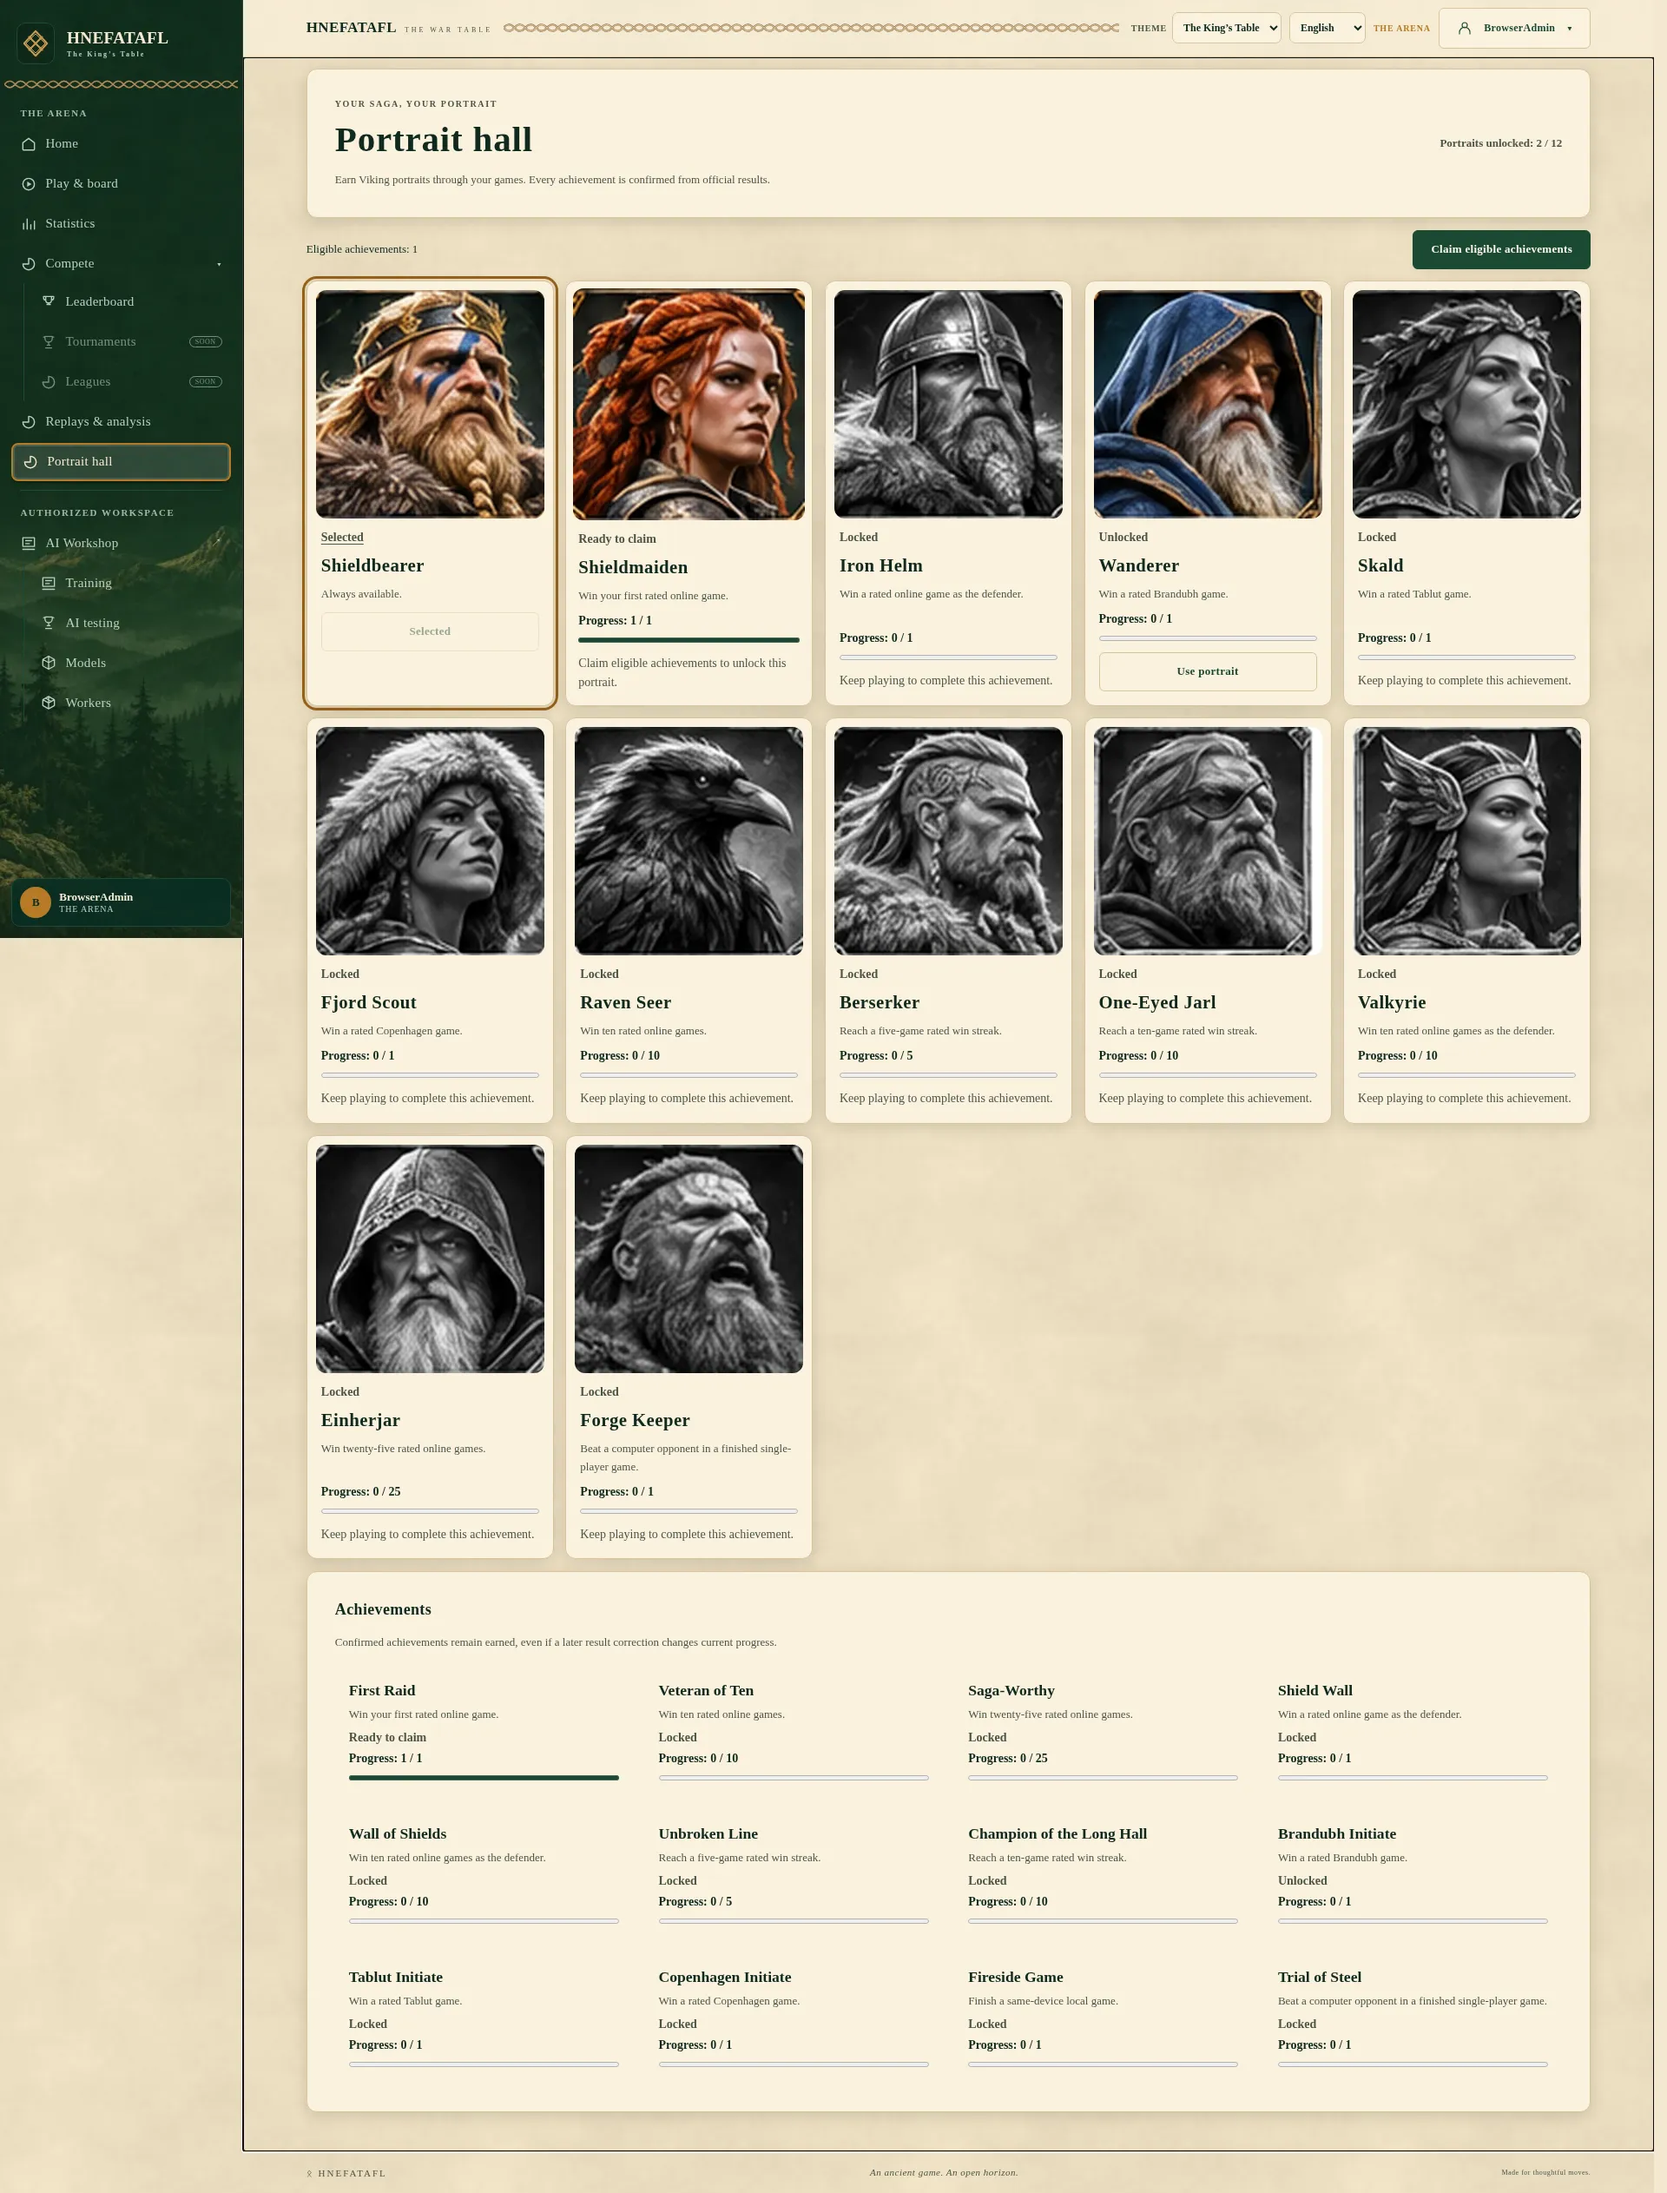
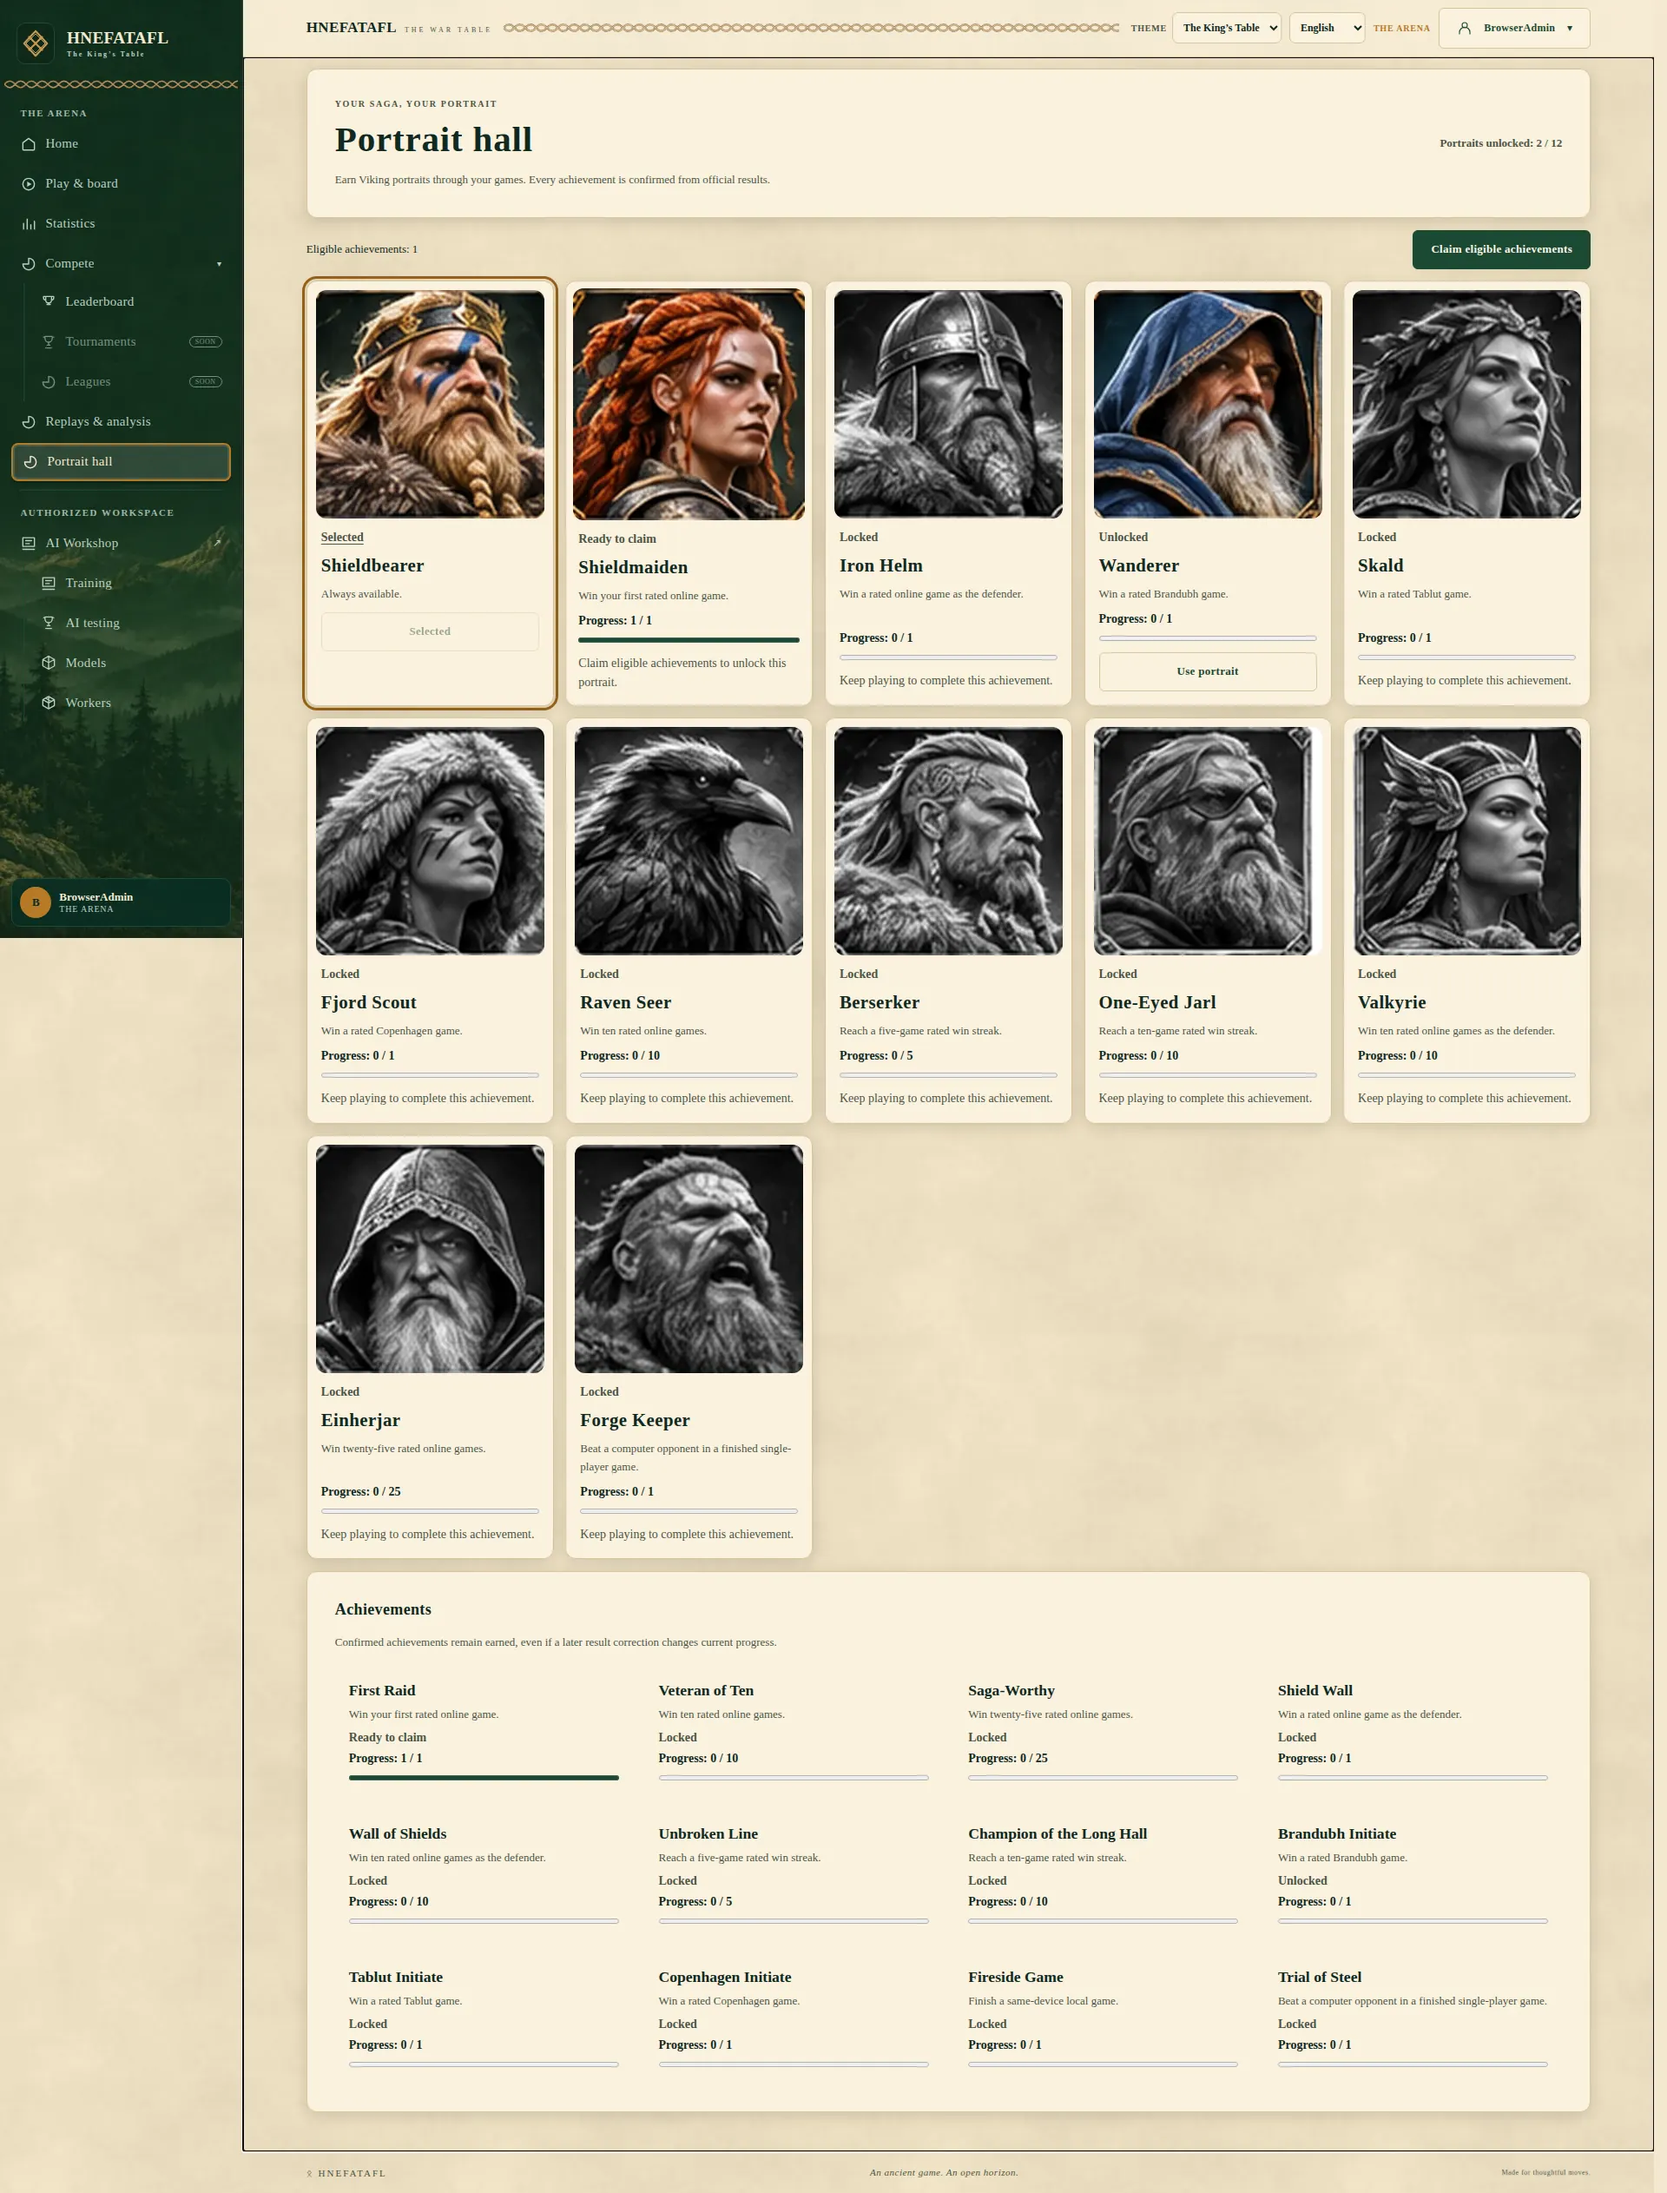
fix: preserve portrait projection privacy and restore contracts

diff --git a/tests/test_profile_identity.py b/tests/test_profile_identity.py
@@ -228,6 +228,7 @@ def test_colliding_shared_names_keep_public_usernames_and_stable_authority(world
             assert entry["account_id"] == accounts[player]["id"]
             assert entry["name"] == (name if shared and player != "Odin" else player)
             assert entry["rating"] == 1200
+            assert entry["portrait_id"] == "shieldbearer"
             assert set(entry) == {
                 "account_id",
                 "name",
@@ -239,6 +240,7 @@ def test_colliding_shared_names_keep_public_usernames_and_stable_authority(world
                 "draws",
                 "rank",
                 "provisional",
+                "portrait_id",
             }
         assert board["me"] == next(
             entry for entry in board["entries"] if entry["username"] == "Archer"
@@ -250,6 +252,7 @@ def test_colliding_shared_names_keep_public_usernames_and_stable_authority(world
                 "account_id": accounts[player]["id"],
                 "name": name if shared else player,
                 "username": player,
+                "portrait_id": "shieldbearer",
             }
         expected = {
             side: f"{name} (@{player})" if shared else player

diff --git a/tests/test_deployment.py b/tests/test_deployment.py
@@ -339,6 +339,10 @@ def test_restore_retains_live_online_results_return_games_and_pauses_timeout_gat
             "VALUES(?,?,?)",
             (deployment.admin["id"], "shieldmaiden", 456),
         )
+    # Published portraits are current profile metadata, not a game-version
+    # snapshot. Capture the projection after the legitimate live selection.
+    finished = core.read(digest(first_token), game["id"])
+    assert finished["participants"]["attackers"]["portrait_id"] == "shieldmaiden"
     tables = (
         "online_matches",
         "online_games",

diff --git a/hnefatafl/online_core.py b/hnefatafl/online_core.py
@@ -692,7 +692,9 @@ class OnlineCore:
                 {
                     "account_id": identifier,
                     **accounts.get(identifier, public_identity(None)),
-                    "portrait_id": portraits[identifier],
+                    # An unavailable account keeps its authoritative seat but
+                    # must not disclose saved profile/portrait metadata.
+                    **({"portrait_id": portraits[identifier]} if identifier in accounts else {}),
                 }
                 if identifier
                 else None

diff --git a/tests/test_profile_views.py b/tests/test_profile_views.py
@@ -19,5 +19,6 @@ def test_online_participants_resolve_shared_names_without_changing_account_ids(r
             "account_id": account_id,
             "name": "Private Þór" if shared else "Archer",
             "username": "Archer",
+            "portrait_id": "shieldbearer",
         }
         assert current["version"] == game["version"]

diff --git a/docs/validation/portrait-hall.md b/docs/validation/portrait-hall.md
@@ -26,6 +26,13 @@ visual tests use controlled authoritative responses for all four collectible sta
 - [King's Table 1920×1080 / Default](../screenshots/portrait-hall/kings-table-1920.webp)
 - [King's Table 3840×2160 / Large](../screenshots/portrait-hall/kings-table-3840.webp)
 
+| Theme | 1920×1080 | 3840×2160 |
+| --- | --- | --- |
+| King's Table | [Capture](../screenshots/portrait-hall/kings-table-1920.webp) | [Capture](../screenshots/portrait-hall/kings-table-3840.webp) |
+| Iron & Ash | [Capture](../screenshots/portrait-hall/iron-ash-1920.webp) | [Capture](../screenshots/portrait-hall/iron-ash-3840.webp) |
+| Saga Hall | [Capture](../screenshots/portrait-hall/saga-hall-1920.webp) | [Capture](../screenshots/portrait-hall/saga-hall-3840.webp) |
+| Classic Table | [Capture](../screenshots/portrait-hall/classic-table-1920.webp) | [Capture](../screenshots/portrait-hall/classic-table-3840.webp) |
+
 The contact sheets are viewport reviews; native images are full-page captures.
 The CI `arena-final-visual-acceptance` artifact also retains all 32 full gallery
 captures (four themes × two languages × four desktop/phone sizes) before later
@@ -50,3 +57,18 @@ An initial new backend test called `list` instead of `listing`; corrected before
 the clean 212-case run. An initial browser computed-style read detached during
 React replacement; the assertion now retries connected elements with the unchanged
 4.5:1 requirement. No layout or accessibility threshold was lowered.
+
+## Full-CI correction pass
+
+Initial CI found six backend exact-projection/restore assertions not yet updated
+for published portraits, and two transition-time browser measurements. Unavailable
+accounts now retain their original anonymous seat shape without portrait metadata;
+active public DTO allowlists explicitly include only `portrait_id`. The restore
+fixture captures current profile metadata after selecting the retained portrait,
+then still compares the full restored game and every retained table.
+
+The browser measurements keep every geometry threshold and expected card count,
+retrying a settled resize and returning false while a board is temporarily absent
+instead of throwing out of `expect.poll`. Corrected affected backend suites:
+**69 passed**, one existing warning. Corrected browser regressions: **3 passed,
+1 intentional desktop skip**. Complete CI is rerun on the final head.
